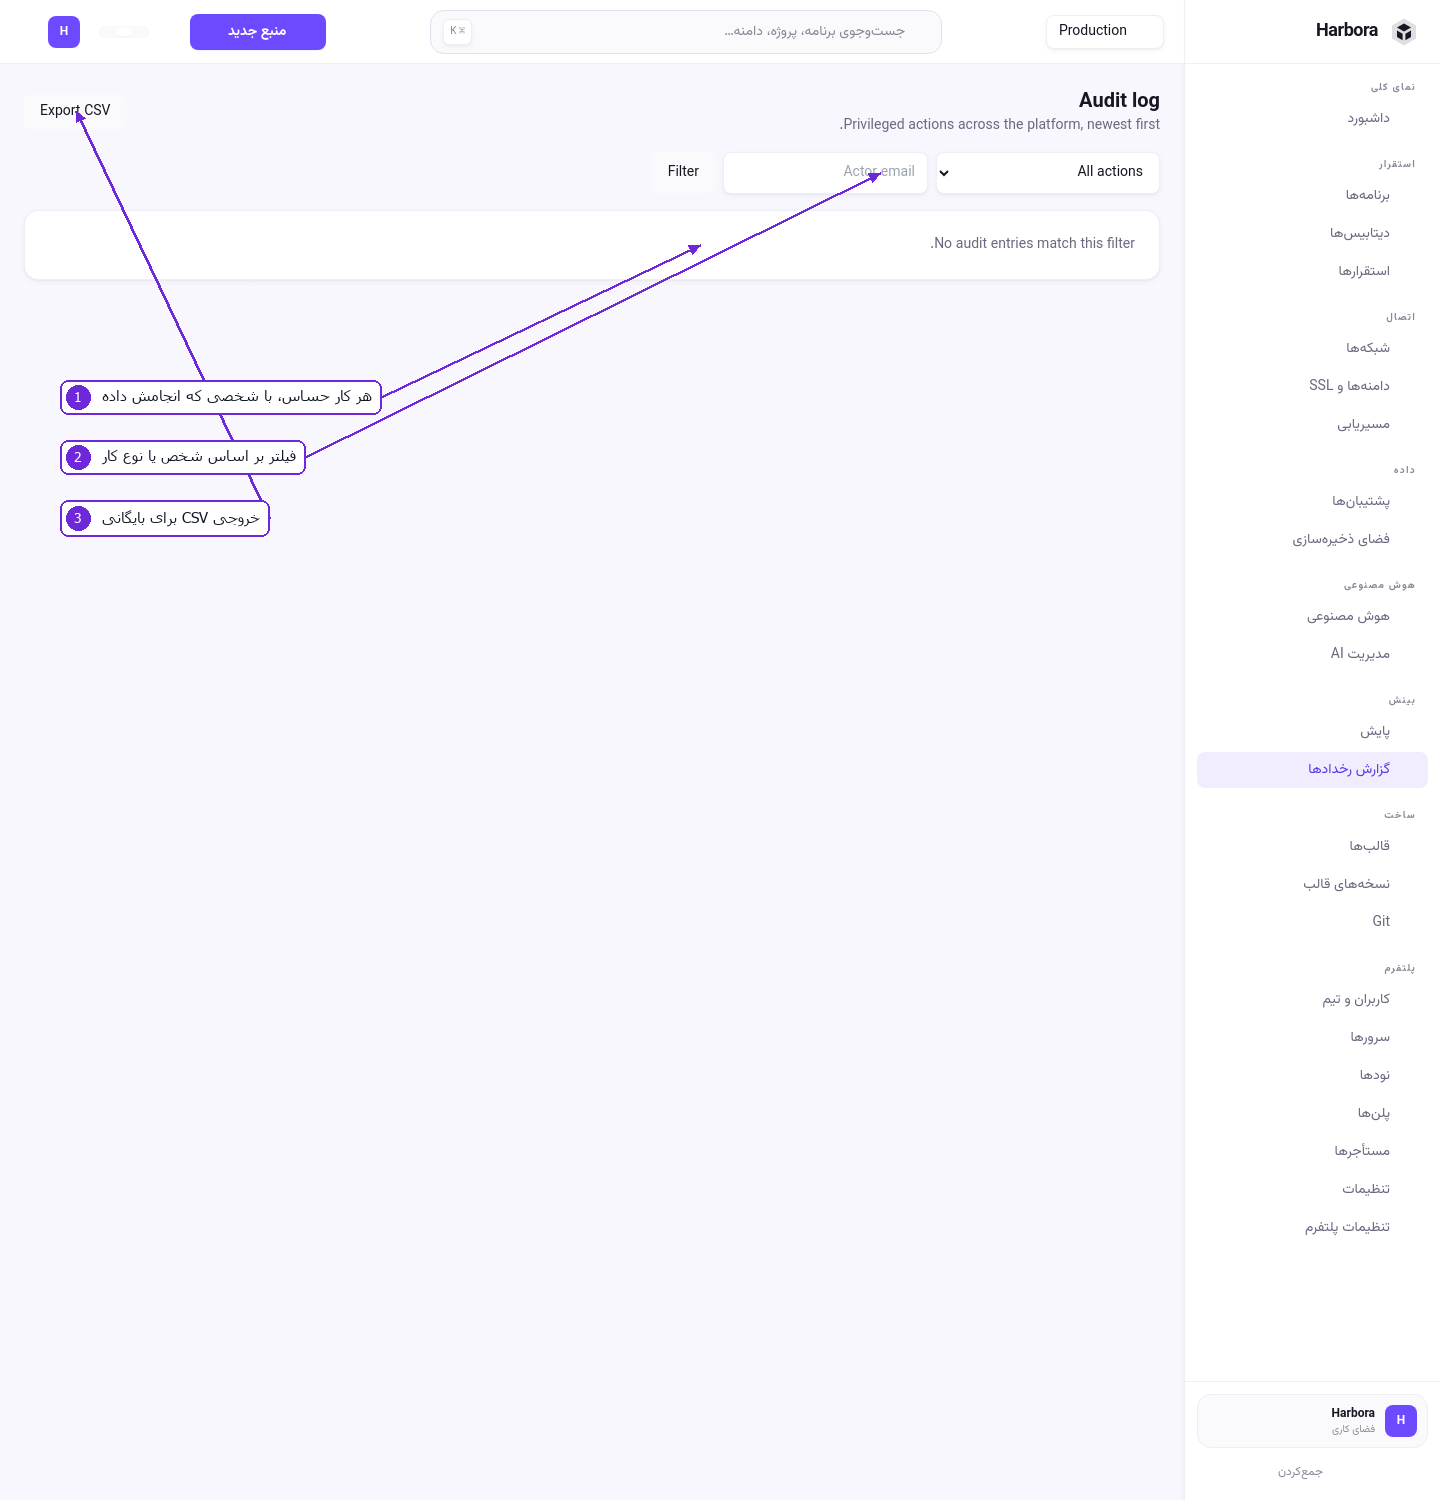
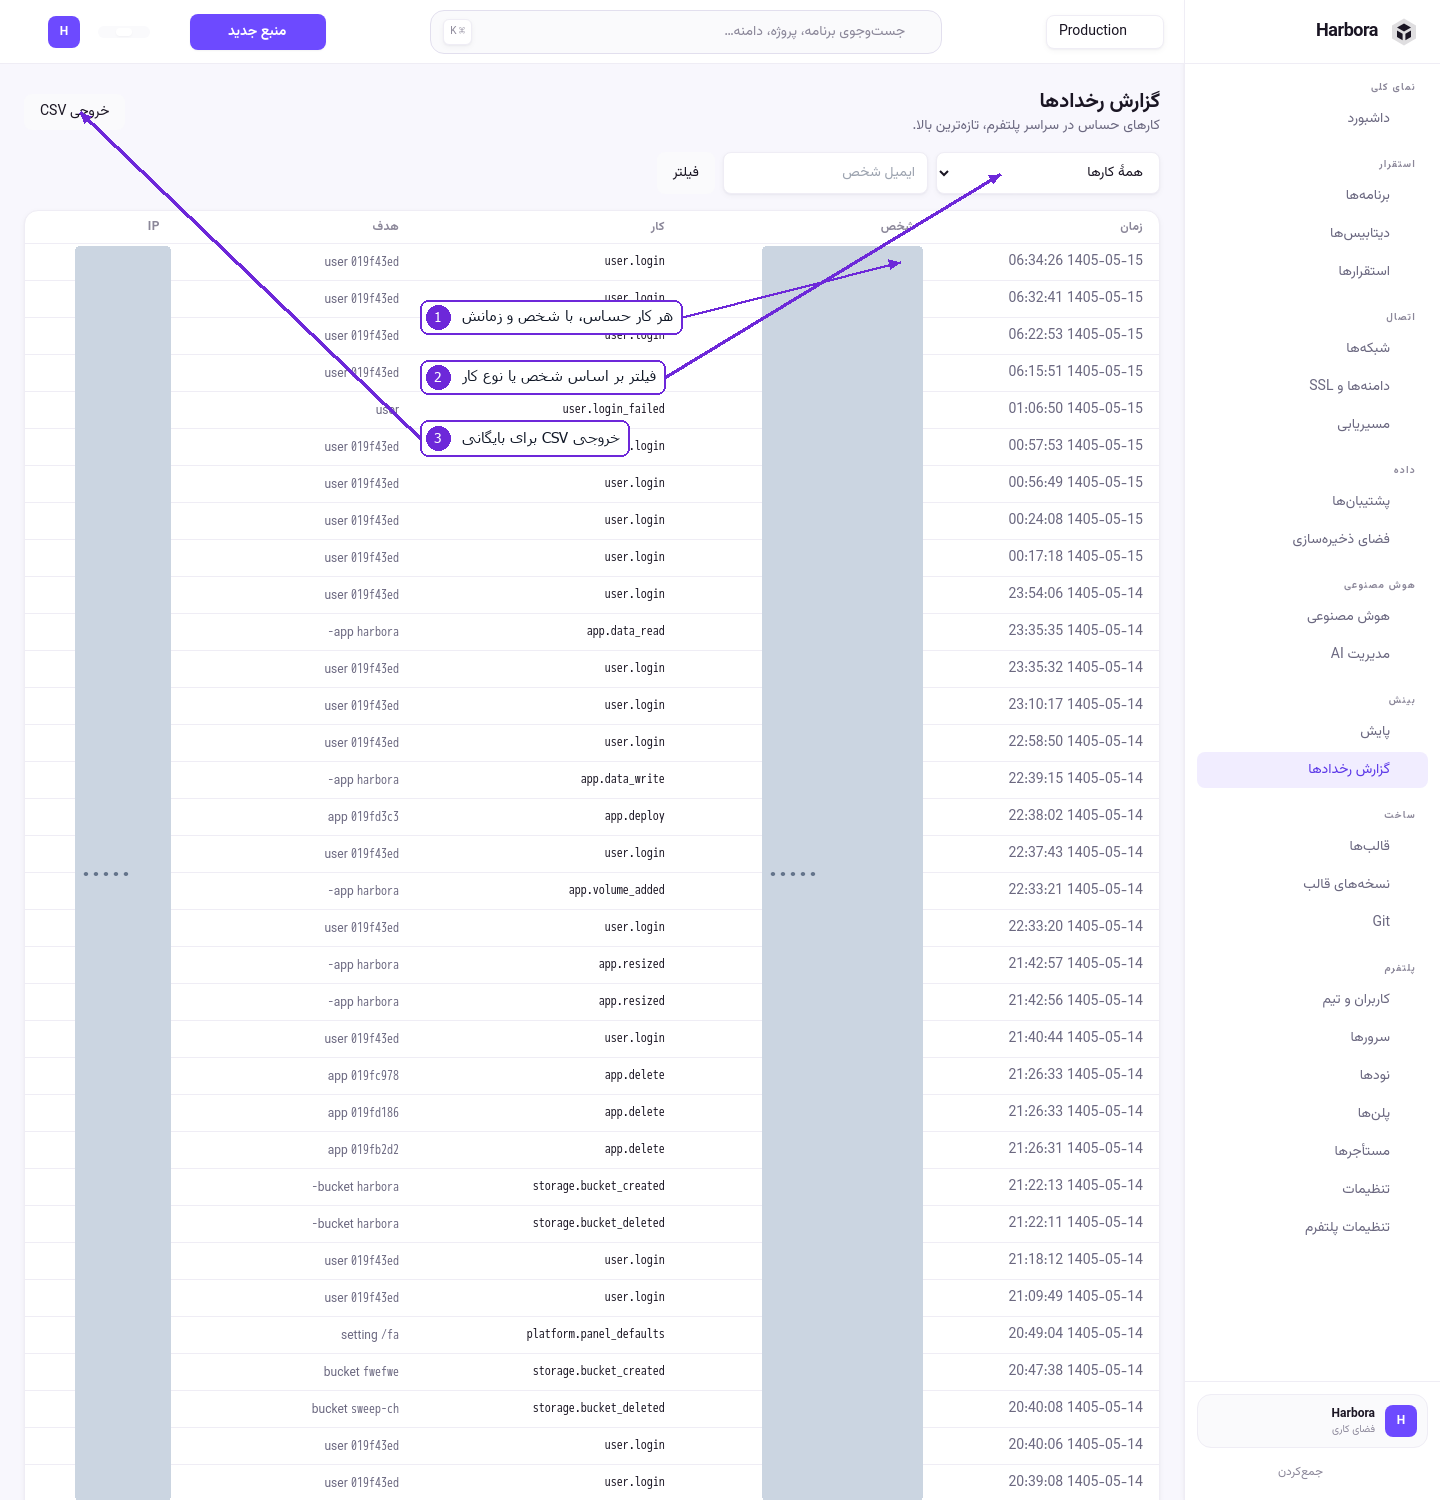
Refresh the two tutorial pages the fixes changed
The audit chapter was illustrated with the bug: a page insisting no entries
matched while the dropdown listed two dozen kinds of event. It now shows the
log doing its job, with the actor-email and IP columns painted out — the trail
records people, and the tutorial must not.

The Git page no longer needs its redaction regions at all: the secrets it used
to print are behind a reveal now, which is the better screenshot anyway — the
tutorial shows the panel keeping the secret, rather than the annotation layer
having to.

diff --git a/docs/tutorial/09-administration.md b/docs/tutorial/09-administration.md
@@ -85,7 +85,8 @@
 ۱. **اتصال provider** — GitHub، GitLab، Gitea یا Custom، با توکن دسترسی. با **ایمپورت مخازن**
    فهرست مخزنها میآید.
 ۲. **آدرس وبهوک** — این را در تنظیمات وبهوکِ مخزن بگذارید، با `Content-Type: application/json`.
-۳. **سکرت وبهوک** — همان مقدار را در فیلد Secret مخزن بگذارید. با **چرخش سکرت** عوض میشود.
+۳. **سکرت وبهوک** — با **نمایش** دیده میشود (پنهان است تا صفحه قابل اشتراکگذاری بماند)؛ همان
+   مقدار را در فیلد Secret مخزن بگذارید. با **چرخش سکرت** عوض میشود.
 ۴. از آن به بعد هر `push` روی شاخهٔ تعیینشده یک استقرار میسازد.
 
 GitHub و Gitea با امضای HMAC تأیید میشوند و GitLab با هدر توکن.
